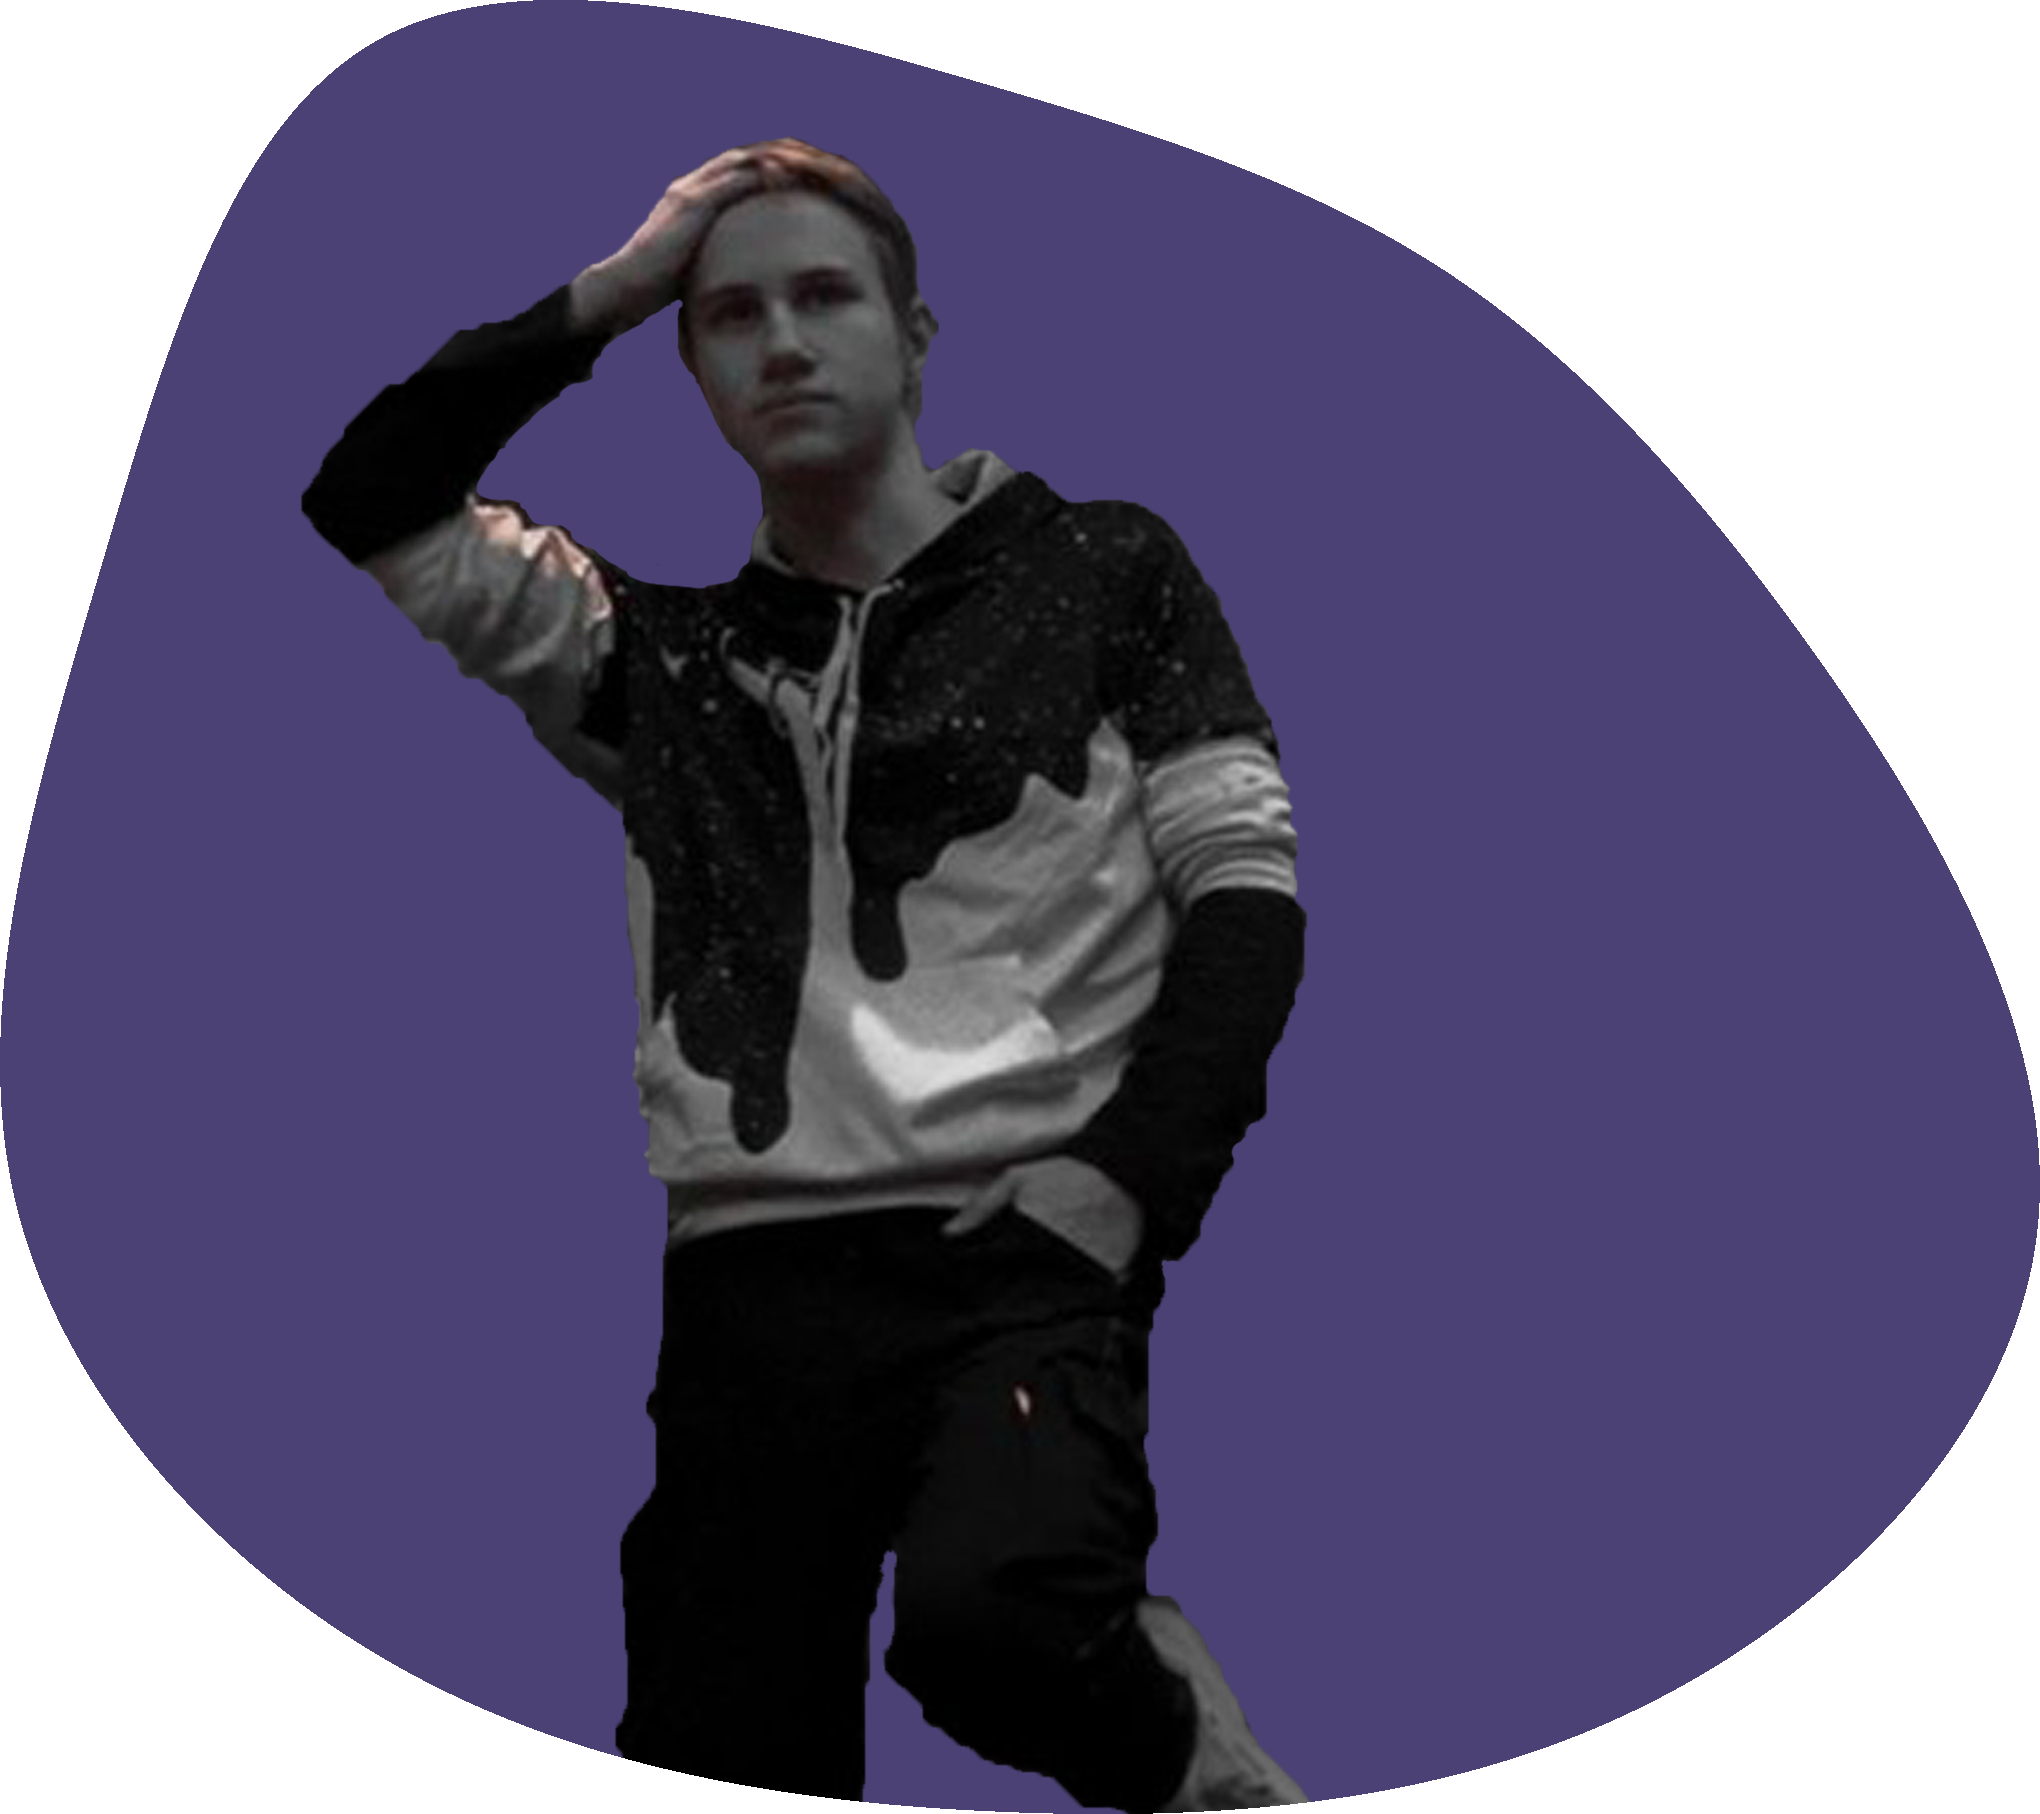
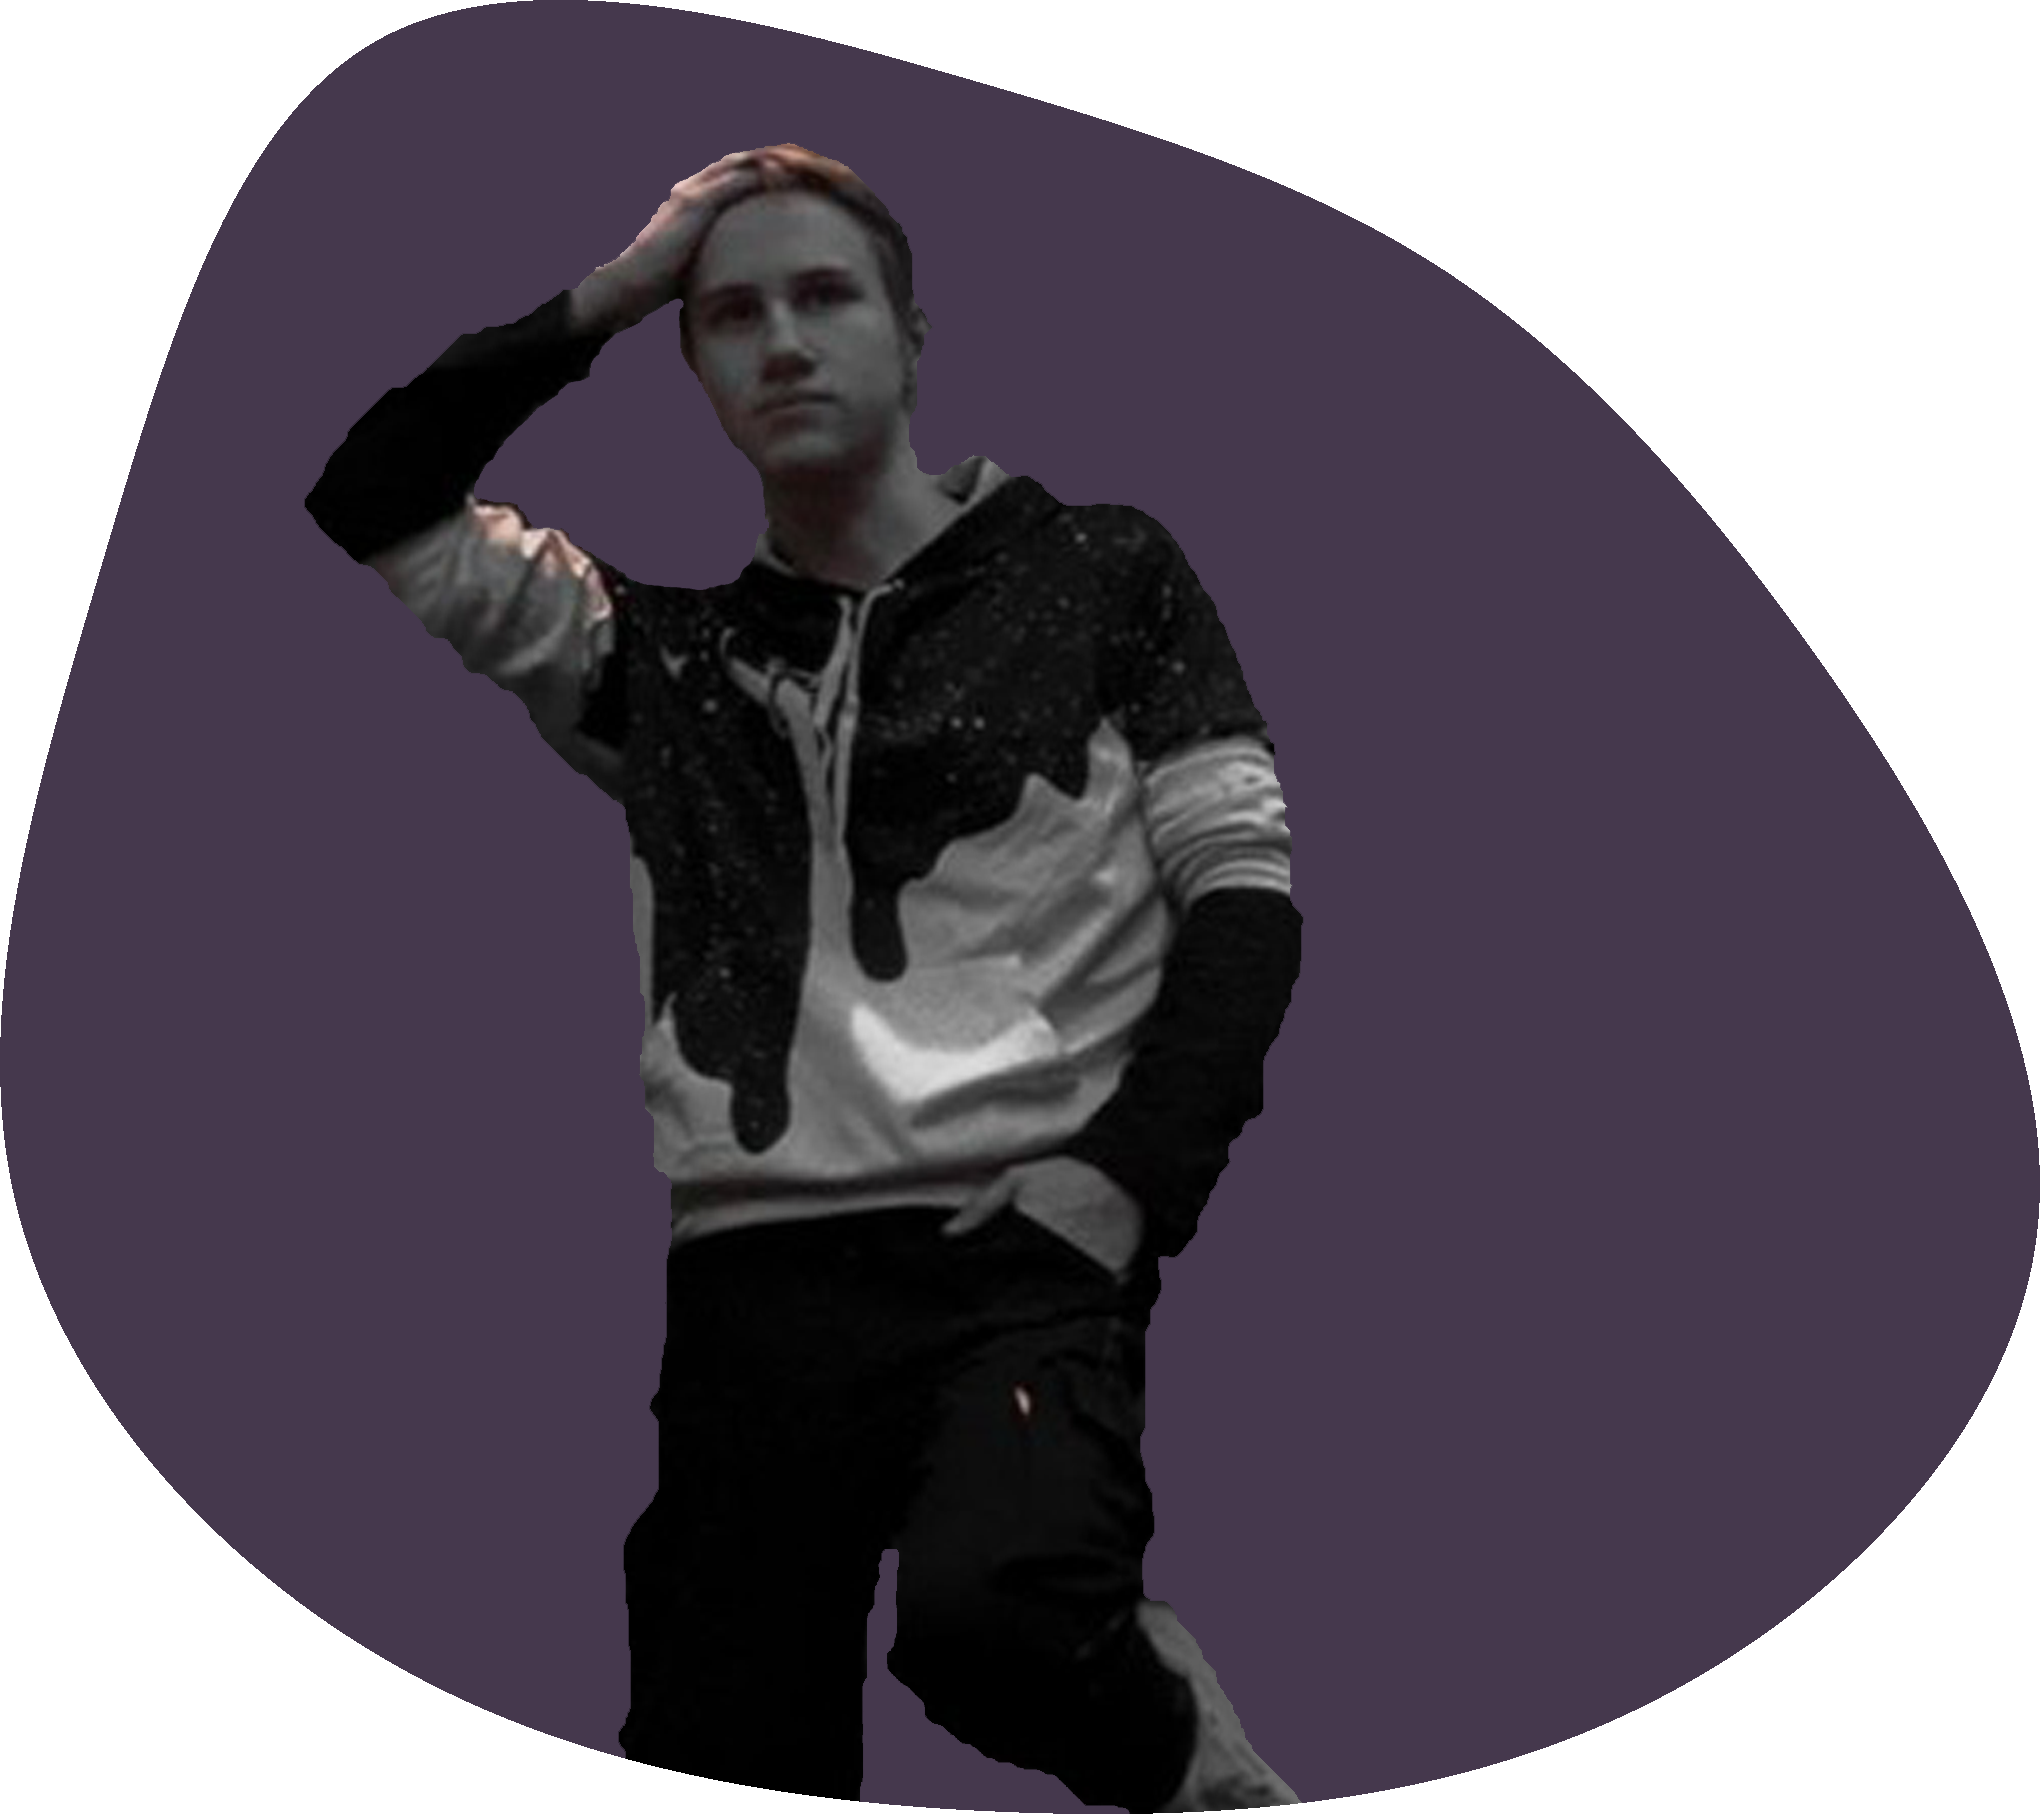
prerelease

diff --git a/styles/style.css b/styles/style.css
@@ -921,9 +921,14 @@ img{
         transform: translate(-50%, -50%);
     }
     
+    .blob1{
+        width: 330px;
+        height: 330px;
+    }
+
     .cross1{
-        top: 50%;
-        left: 25%;
+        top: 40%;
+        left: 42%;
         width: 40px;
         height: 40px;
         animation: cross1 10s linear infinite;
@@ -931,7 +936,7 @@ img{
     
     .cross2{
         top: 14%;
-        left: 38%;
+        left: 19%;
         width: 45px;
         height: 45px;
         animation: cross2 10s linear infinite;
@@ -939,23 +944,23 @@ img{
     
     .cross3{
         top: 38%;
-        left: 86%;
+        left: 76%;
         width: 40px;
         height: 40px;
         animation: cross3 10s linear infinite;
     }
     
     .circle1{
-        top: 39%;
-        left: 60%;
+        top: 32%;
+        left: 25%;
         width: 46px;
         height: 46px;
         animation: circle1 10s linear infinite;
     }
     
     .circle2{
-        top: 6%;
-        left: 54%;
+        top: 14%;
+        left: 50%;
         width: 42px;
         height: 42px;
         animation: circle2 10s linear infinite;
@@ -963,15 +968,15 @@ img{
     
     .circle3{
         display: none;
-        top: 3%;
-        left: 50%;
-        width: 35px;
-        height: 35px;
+        top: 30%;
+        left: 85%;
+        width: 45px;
+        height: 45px;
         animation: circle2 10s linear infinite;
     }
     
     .square1{
-        top: 42%;
+        top: 39%;
         left: 10%;
         width: 45px;
         height: 45px;
@@ -979,32 +984,32 @@ img{
     }
     
     .square2{
-        top: 25%;
-        left: 55%;
+        top: 17%;
+        left: 90%;
         width: 45px;
         height: 45px;
         animation: square2 10s linear infinite; 
     }
     
     .square3{
-        top: 56%;
-        left: 90%;
+        top: 26%;
+        left: 65%;
         width: 40px;
         height: 40px;
         animation: square3 10s linear infinite; 
     }
     
     .triangle1{
-        top: 34%;
-        left: 35%;
+        top: 26%;
+        left: 37%;
         width: 40px;
         height: 40px;
         animation: triangle1 10s linear infinite; 
     }
     
     .triangle2{
-        top: 48%;
-        left: 72%;
+        top: 47%;
+        left: 94%;
         width: 40px;
         height: 40px;
         animation: triangle2 10s linear infinite
@@ -1012,8 +1017,8 @@ img{
     
     .triangle3{
         display: none;
-        top: 20%;
-        left: 50%;
+        top: 44%;
+        left: 58%;
         width: 40px;
         height: 40px;
         animation: triangle3 10s linear infinite;
@@ -1182,14 +1187,14 @@ img{
 @media only screen and (min-width:1000px){
     .photo{
         position: absolute;
-        height: 289px;
-        top:20%;
+        height: 339px;
+        top:7%;
         left: 100%;
     }
     
     .dark{  
         transition: 1s ease-in-out;
-        opacity: 80%;
+        opacity: 100%;
     }
 
     .light{
@@ -1200,7 +1205,6 @@ img{
     body.dark-theme .dark{
         display: inline;
         transition: 1s ease-in-out;
-        opacity: 100%;
     }
     
     body.dark-theme .light{
